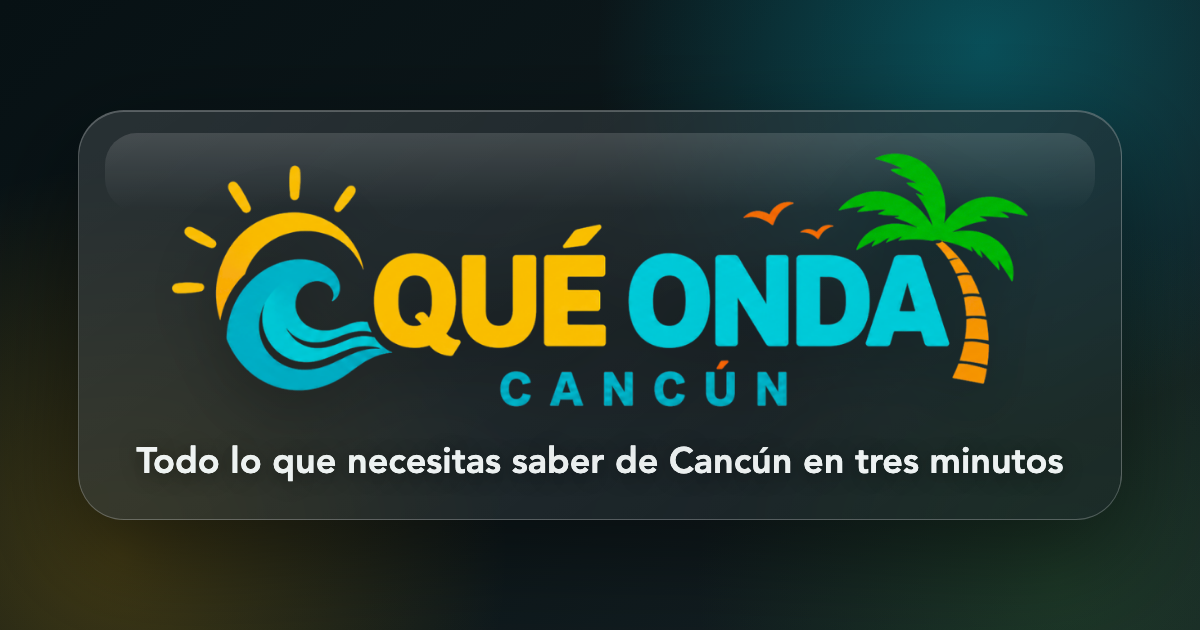
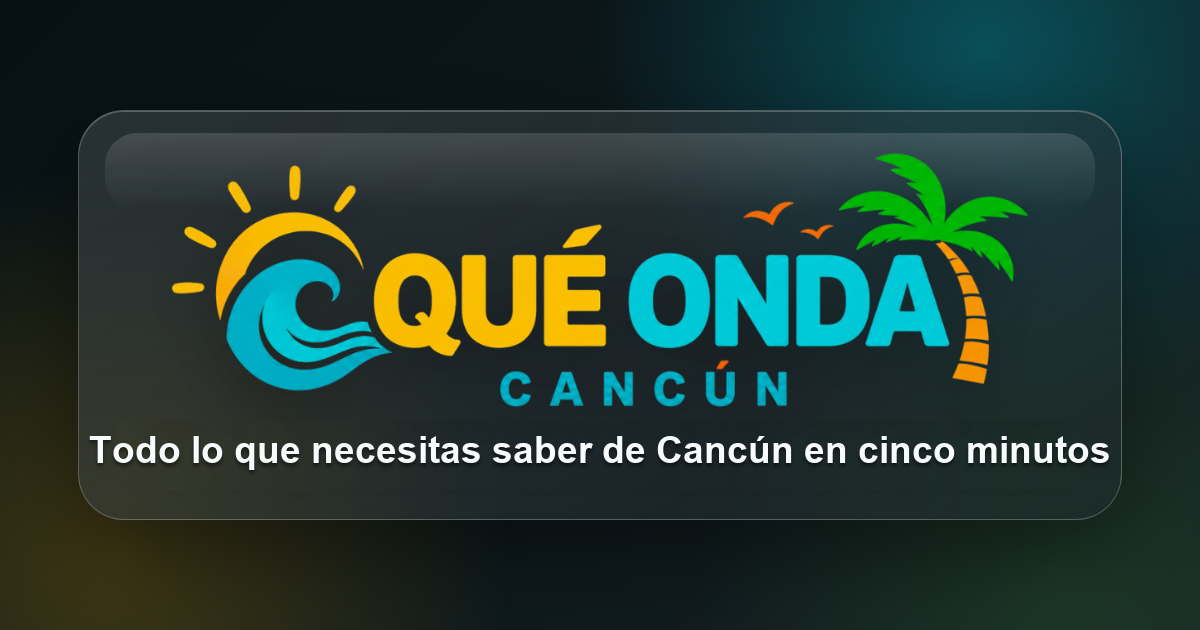
Update Que Onda subtitle to five minutes

Changed region(s): [[0.0617, 0.6937, 0.925, 0.754]]

diff --git a/index.html b/index.html
@@ -13,16 +13,16 @@
     <meta property="og:url" content="https://queondacancun.com/">
     <meta property="og:title" content="Qué Onda Cancún">
     <meta property="og:description" content="Newsletter local. Una vez por semana. Cero spam.">
-    <meta property="og:image" content="https://queondacancun.com/assets/que-onda-share-card.png?v=20260617">
-    <meta property="og:image:secure_url" content="https://queondacancun.com/assets/que-onda-share-card.png?v=20260617">
+    <meta property="og:image" content="https://queondacancun.com/assets/que-onda-share-card.png?v=20260617b">
+    <meta property="og:image:secure_url" content="https://queondacancun.com/assets/que-onda-share-card.png?v=20260617b">
     <meta property="og:image:type" content="image/png">
     <meta property="og:image:width" content="1200">
     <meta property="og:image:height" content="630">
-    <meta property="og:image:alt" content="Qué Onda Cancún - Todo lo que necesitas saber de Cancún en tres minutos">
+    <meta property="og:image:alt" content="Qué Onda Cancún - Todo lo que necesitas saber de Cancún en cinco minutos">
     <meta name="twitter:card" content="summary_large_image">
     <meta name="twitter:title" content="Qué Onda Cancún">
     <meta name="twitter:description" content="Newsletter local. Una vez por semana. Cero spam.">
-    <meta name="twitter:image" content="https://queondacancun.com/assets/que-onda-share-card.png?v=20260617">
+    <meta name="twitter:image" content="https://queondacancun.com/assets/que-onda-share-card.png?v=20260617b">
     <link rel="canonical" href="https://queondacancun.com/">
     <link rel="icon" href="/favicon.ico" sizes="any">
     <link rel="icon" type="image/png" sizes="16x16" href="/assets/favicons/favicon-16.png">
@@ -44,7 +44,7 @@
         <h1 class="logo-title">
           <img src="/assets/que-onda-cancun-logo.png" alt="Qué Onda Cancún">
         </h1>
-        <p class="tagline">Todo lo que necesitas saber de Cancún en tres minutos</p>
+        <p class="tagline">Todo lo que necesitas saber de Cancún en cinco minutos</p>
         <p class="categories" aria-label="Categorías">
           <span>Noticias</span>
           <span>Aperturas</span>

diff --git a/assets/social/share-card.html b/assets/social/share-card.html
@@ -99,7 +99,7 @@
     <section class="card" aria-label="Qué Onda Cancún">
       <div class="content">
         <img class="logo" src="./que-onda-logo-trimmed.png" alt="Qué Onda Cancún">
-        <p class="subtitle">Todo lo que necesitas saber de Cancún en tres minutos</p>
+        <p class="subtitle">Todo lo que necesitas saber de Cancún en cinco minutos</p>
       </div>
     </section>
   </body>